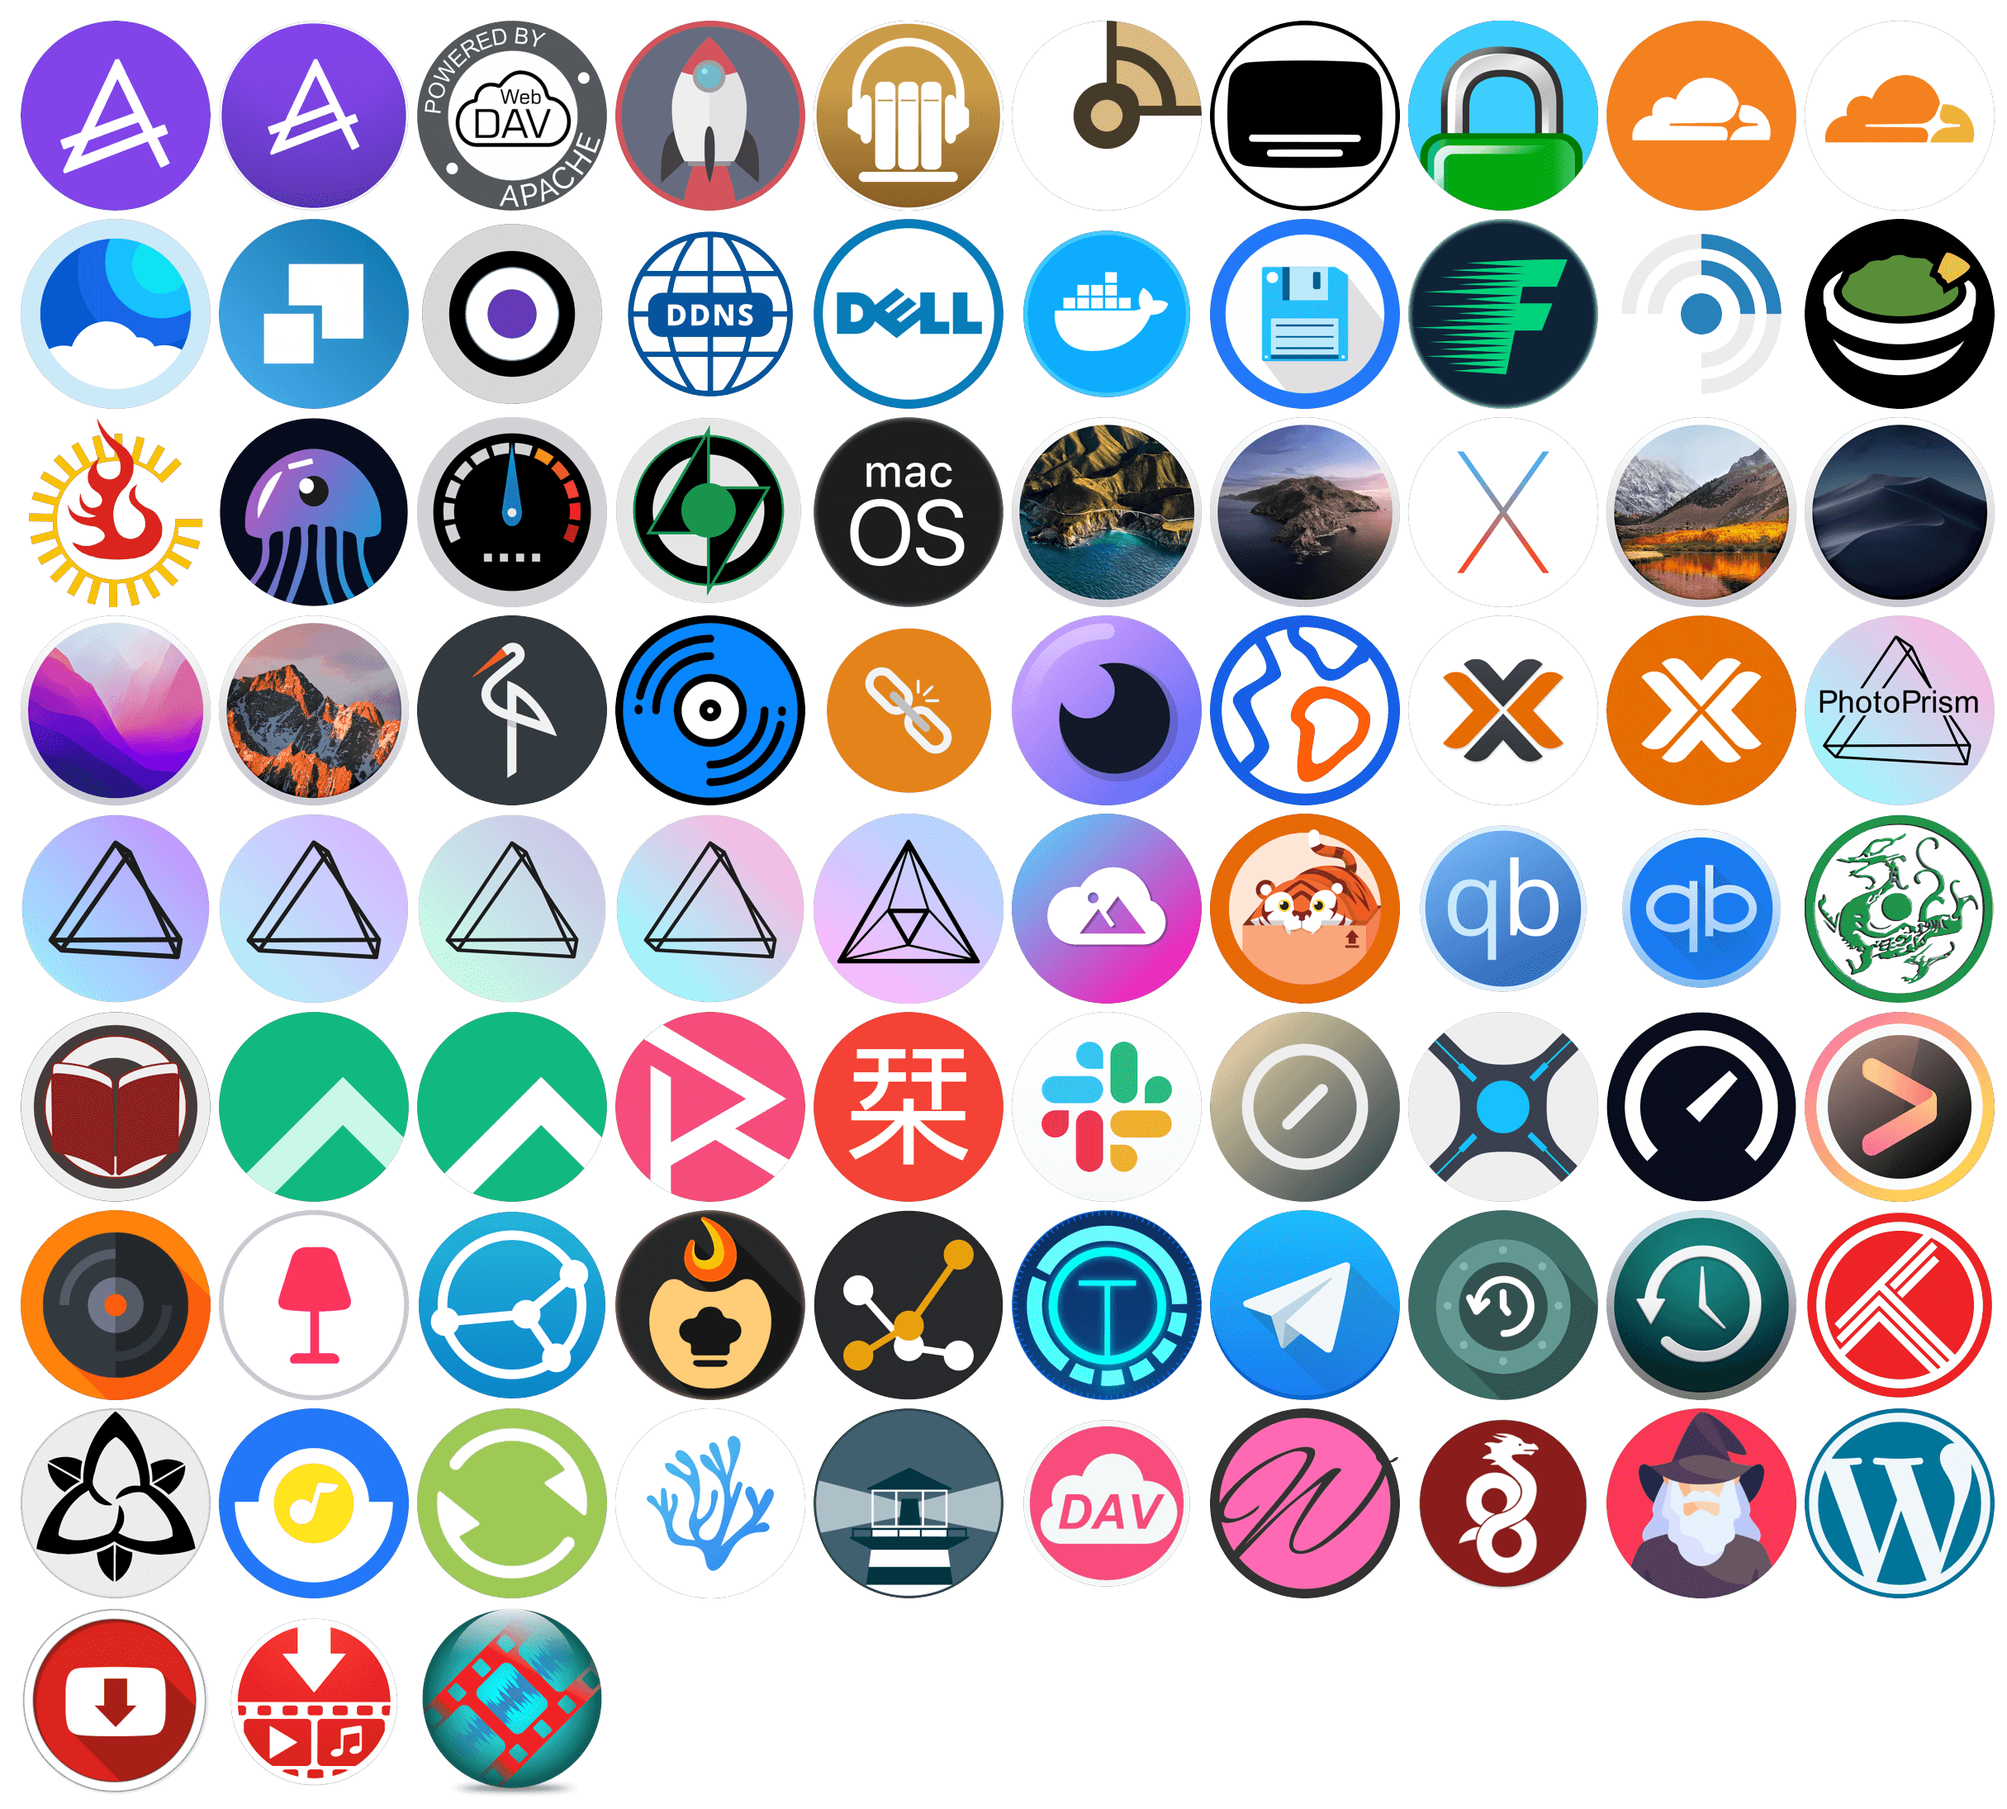
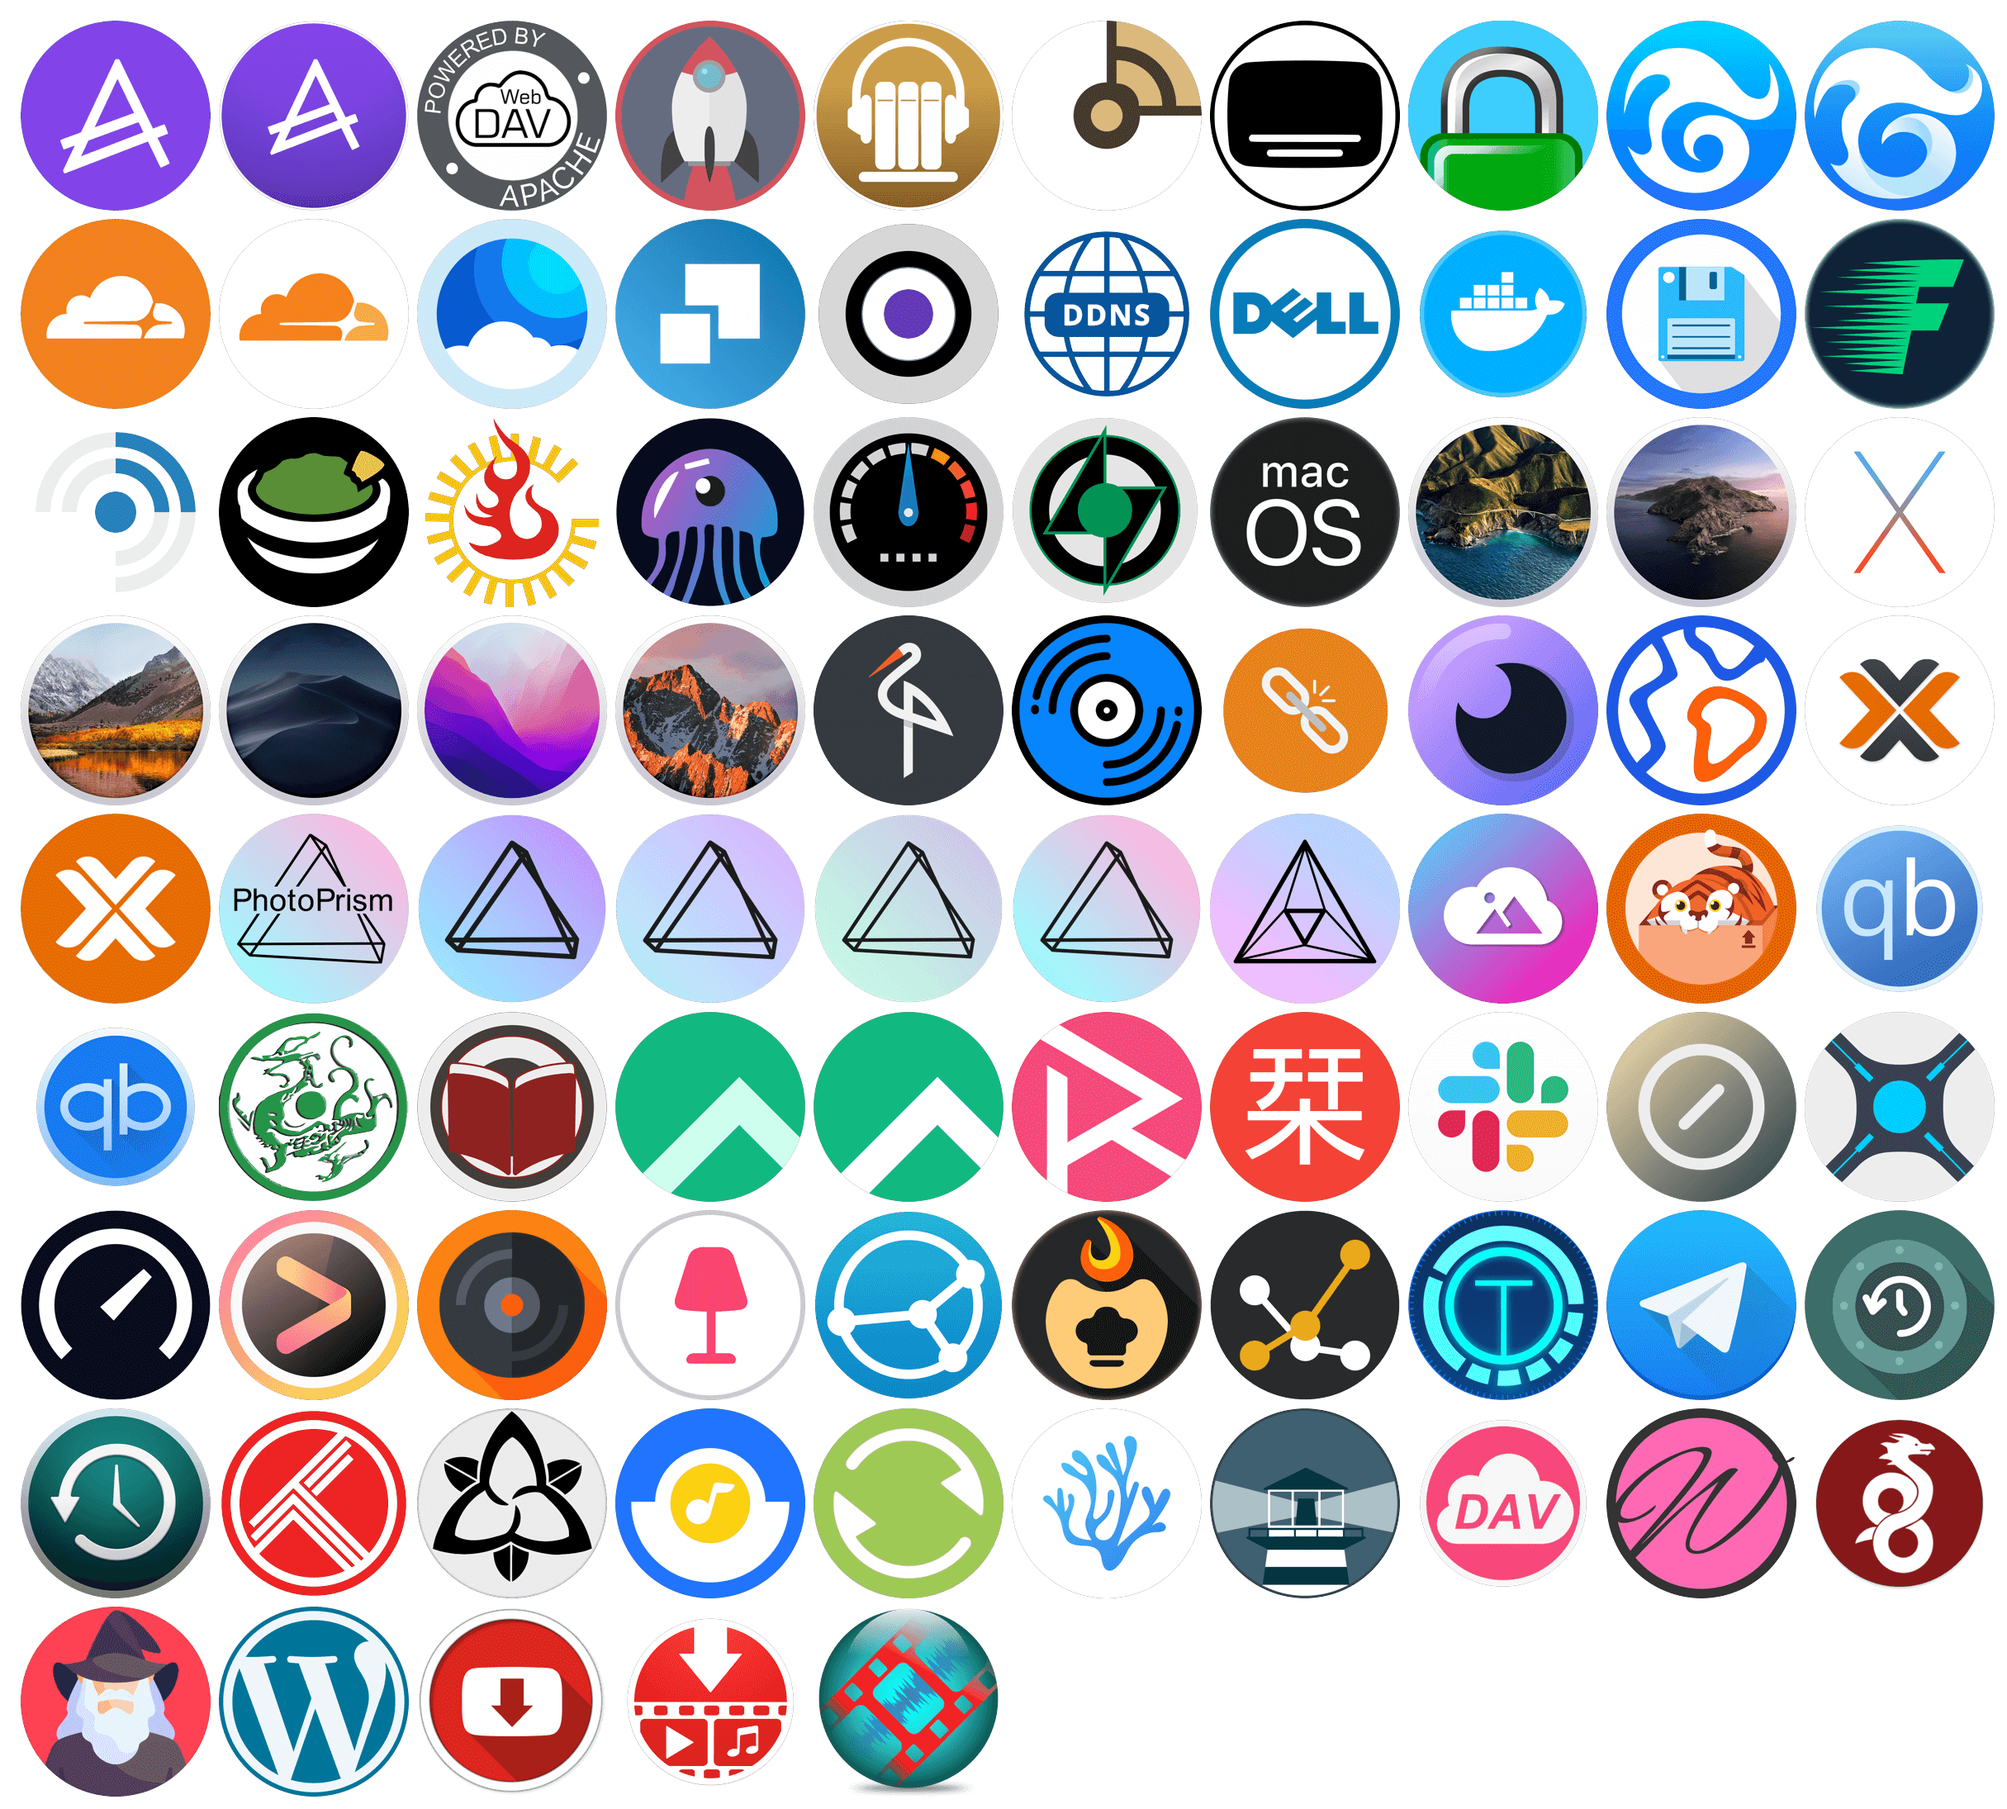
Add 禅道

diff --git a/README.md b/README.md
@@ -71,7 +71,7 @@
 
 - 例如，图标文件在 `/mnt/user/appdata/icons` 下，则图标地址填写 `/mnt/user/appdata/icons/xxxxx.png` 或者 `http://127.0.0.1/mnt/user/appdata/icons/xxxxx.png`，将 xxxxx 换成对应的图标名称即可，<a href="#圆角矩形图标"><strong>图标名称预览在此 »</strong></a>
 
-# 图标预览（当前共计 819 个）
+# 图标预览（当前共计 823 个）
 ## 圆角矩形图标
 <!-- START BORDER-RADIUS ICONS -->
 <img src="https://github.com/xushier/HD-Icons/blob/main/_icons-radius.png?raw=true" alt="radius">
